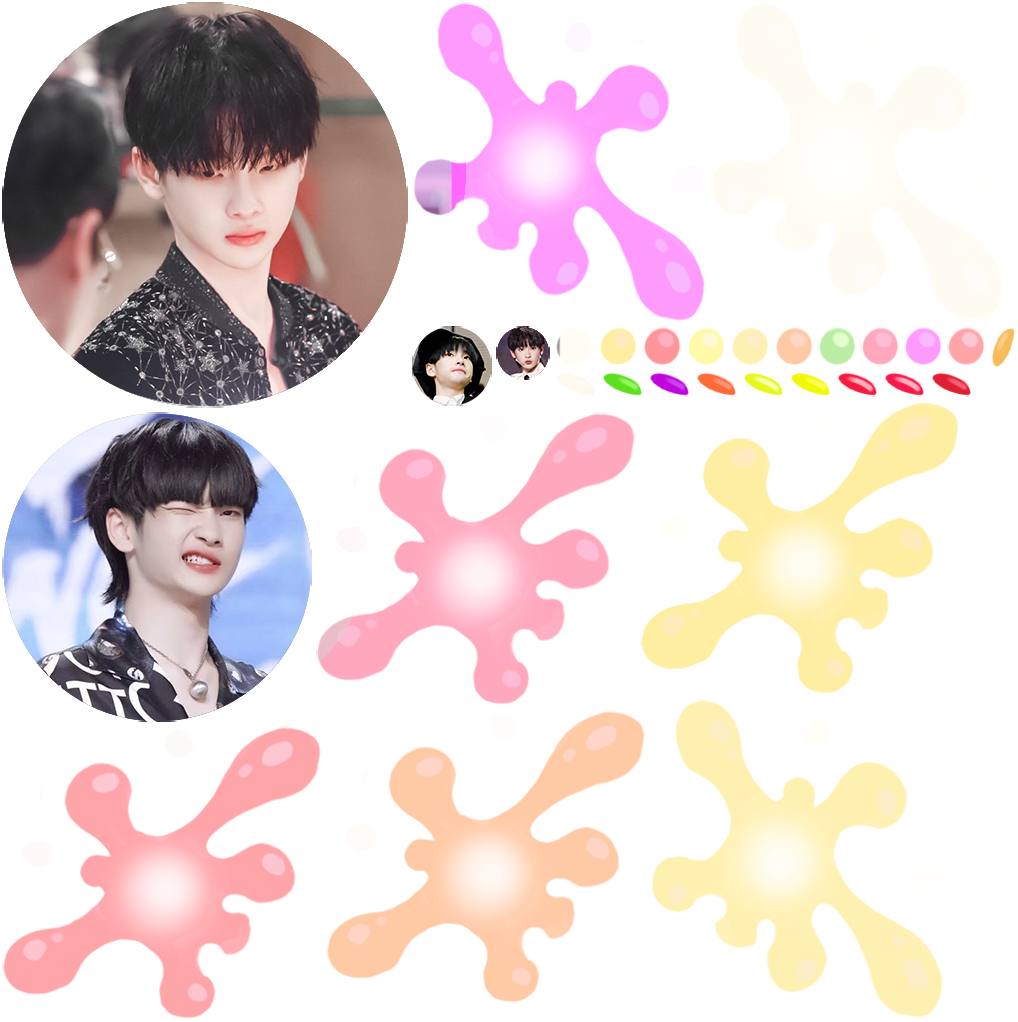
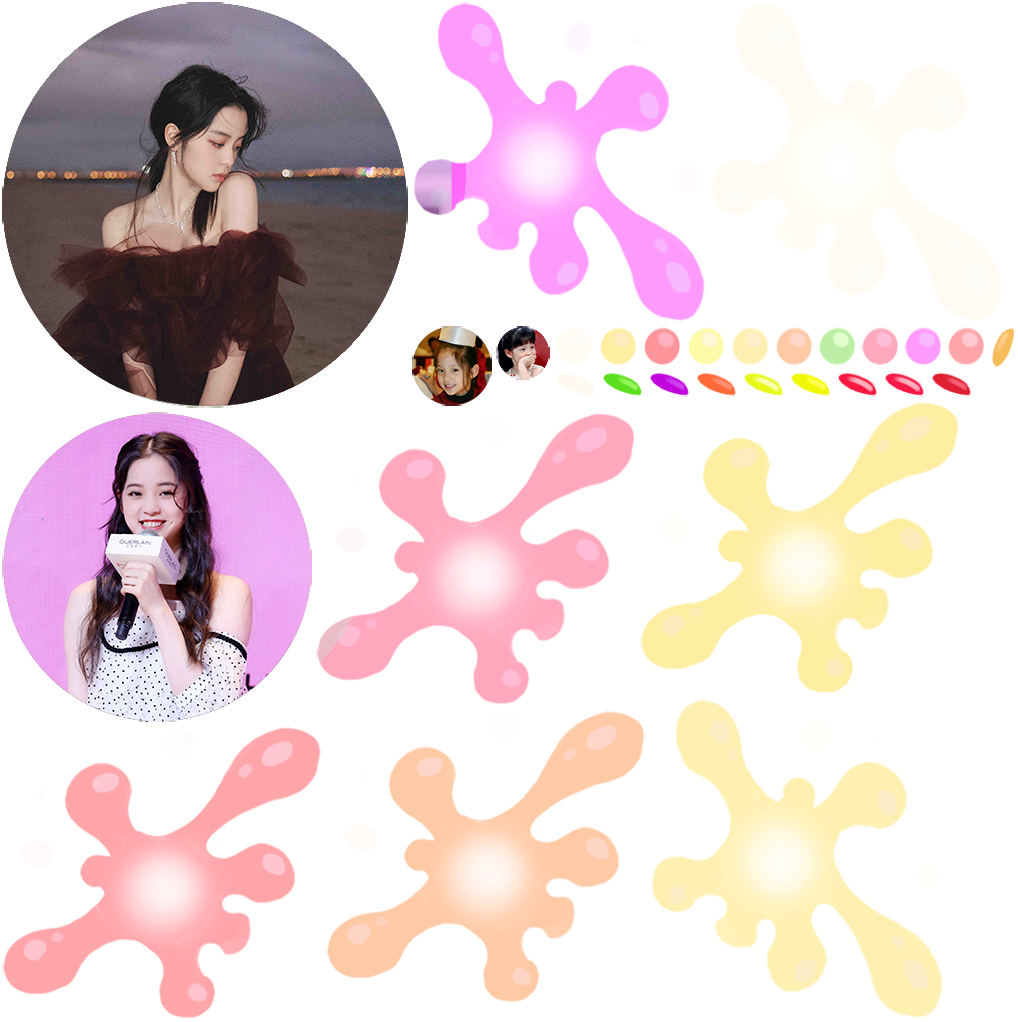
nitial commit

Changed region(s): [[0.0, 0.0, 0.4263, 0.728], [0.3959, 0.3033, 0.5481, 0.3943]]

diff --git a/index.html b/index.html
@@ -4,7 +4,7 @@
 <head>
     <meta charset="utf-8">
 
-    <title>合成南南子</title>
+    <title>合成欧小娜</title>
 
     <!--http://www.html5rocks.com/en/mobile/mobifying/-->
     <meta name="viewport" content="width=device-width,user-scalable=no,initial-scale=1, minimum-scale=1,maximum-scale=1" />
@@ -109,7 +109,7 @@
             //        console.log("window.navigator.language",window.navigator.language);
 
             if (window.navigator.language == "zh-CN" || window.navigator.language == "zh-cn") {
-                document.title = "合成南南子";
+                document.title = "合成欧小娜";
             } 
 
 
